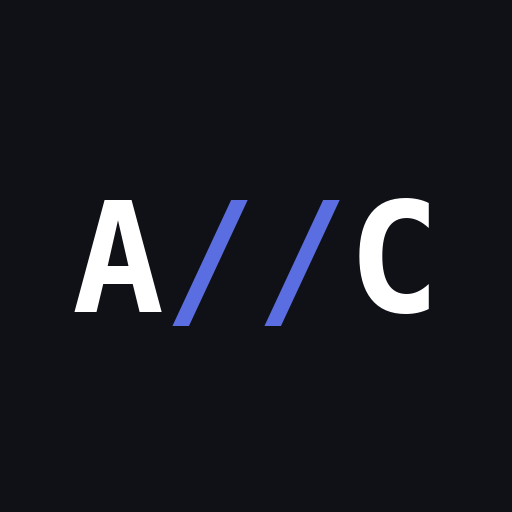
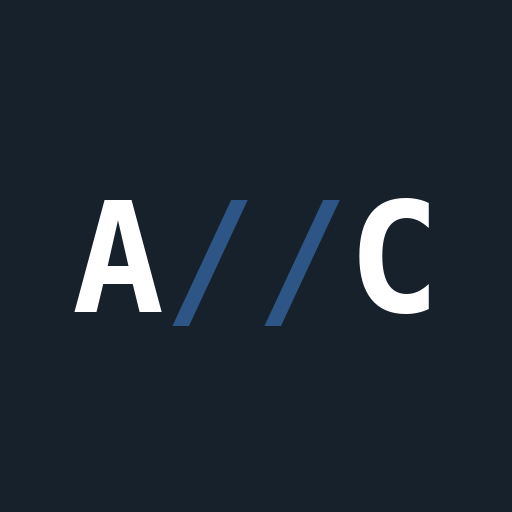
Add files via upload

Changed region(s): [[0.5, 0.375, 0.6562, 0.6562], [0.3438, 0.375, 0.5, 0.6562]]

diff --git a/index.html b/index.html
@@ -4,78 +4,109 @@
 <meta charset="UTF-8">
 <meta name="viewport" content="width=device-width, initial-scale=1.0">
 <title>ALAV COMEX — Gestión Aduanera</title>
-<meta name="theme-color" content="#0f1117">
+<meta name="theme-color" content="#17212c">
 <link rel="manifest" href="manifest.json">
 <link rel="icon" href="icon-192.png" type="image/png">
 <link rel="apple-touch-icon" href="icon-192.png">
 <meta name="apple-mobile-web-app-capable" content="yes">
 <meta name="apple-mobile-web-app-status-bar-style" content="black-translucent">
 <meta name="apple-mobile-web-app-title" content="ALAV COMEX">
+<link rel="preconnect" href="https://fonts.googleapis.com">
+<link rel="preconnect" href="https://fonts.gstatic.com" crossorigin>
+<link href="https://fonts.googleapis.com/css2?family=IBM+Plex+Mono:wght@400;500;600;700&family=Space+Grotesk:wght@400;500;600;700&display=swap" rel="stylesheet">
 <style>
-:root{--bg:#f5f5f0;--bg2:#ffffff;--bg3:#f0f0eb;--bd:#e0ddd5;--bd2:#c8c4bc;--tx:#1a1a1a;--tx2:#5a5a5a;--tx3:#9a9a9a;--ac:#5b6ee1;--ac2:#3a50cc;--gr:#1a9e5c;--gbg:rgba(26,158,92,.08);--gbr:rgba(26,158,92,.3);--yw:#d4900a;--ybg:rgba(212,144,10,.08);--rd:#d93b3b;--rbg:rgba(217,59,59,.08);--or:#e06b1a;--orbg:rgba(224,107,26,.08);--pu:#7c5cbf;--pubg:rgba(124,92,191,.08);--mn:"IBM Plex Mono",monospace;--sn:"IBM Plex Sans",sans-serif;--r:10px;--rs:6px}
+:root{
+  /* ── Papel / superficies ── */
+  --bg:#e9e0c9;        /* mesa de trabajo — papel de manifiesto */
+  --bg2:#fffcf4;        /* tarjeta — hoja fresca */
+  --bg3:#f2ead4;        /* campo hundido — casillero de formulario */
+  --bd:#d9cca4;         /* línea fina */
+  --bd2:#c2b184;         /* línea marcada */
+  /* ── Tinta ── */
+  --tx:#1c2530;         /* texto principal */
+  --tx2:#5c5240;         /* texto secundario */
+  --tx3:#9c8f6e;         /* texto terciario */
+  --ink:#17212c;         /* tinta oscura — header, sellos */
+  --ink2:#0e1620;
+  /* ── Sello (acento principal) ── */
+  --ac:#2d5686;
+  --ac2:#1c3a5e;
+  /* ── Estados (colores de canal — VERDE/NARANJA/ROJO, como en tus despachos) ── */
+  --gr:#1f7a4d;--gbg:rgba(31,122,77,.09);--gbr:rgba(31,122,77,.35);
+  --yw:#a3701c;--ybg:rgba(163,112,28,.09);
+  --rd:#ad3131;--rbg:rgba(173,49,49,.09);
+  --or:#b5651d;--orbg:rgba(181,101,29,.09);
+  --pu:#5d4a8a;--pubg:rgba(93,74,138,.09);
+  /* ── Tipografía ── */
+  --mn:"IBM Plex Mono",ui-monospace,monospace;
+  --sn:"Space Grotesk",ui-sans-serif,sans-serif;
+  /* ── Forma: esquinas rectas, como un formulario, no una app de moda ── */
+  --r:3px;--rs:2px;
+}
 *{box-sizing:border-box;margin:0;padding:0}
-body{font-family:var(--sn);background:#b0aaa0;color:var(--tx);min-height:100vh;font-size:14px}
-.hdr{background:var(--bg2);border-bottom:1px solid var(--bd);padding:0 18px;display:flex;align-items:center;gap:16px;height:54px;position:sticky;top:0;z-index:100;box-shadow:0 2px 12px rgba(0,0,0,.25)}
-.logo{font-family:var(--mn);font-size:13px;font-weight:700;color:var(--ac);white-space:nowrap;letter-spacing:.05em}
-.logo span{color:var(--tx3)}
+body{font-family:var(--sn);background:var(--bg);background-image:repeating-linear-gradient(0deg,rgba(28,37,48,.025) 0px,rgba(28,37,48,.025) 1px,transparent 1px,transparent 28px);color:var(--tx);min-height:100vh;font-size:14px}
+.hdr{background:var(--ink);border-bottom:2px solid var(--ac);padding:0 18px;display:flex;align-items:center;gap:16px;height:54px;position:sticky;top:0;z-index:100;box-shadow:0 4px 16px rgba(0,0,0,.3)}
+.logo{font-family:var(--sn);font-size:14px;font-weight:700;color:#fff;white-space:nowrap;letter-spacing:.08em;text-transform:uppercase;border:1px solid rgba(255,255,255,.25);padding:4px 10px;border-radius:var(--rs);position:relative}
+.logo::before{content:'';position:absolute;left:-1px;top:-1px;width:6px;height:6px;border-top:1px solid var(--ac);border-left:2px solid var(--ac)}
+.logo span{color:#7fa5d6}
 .nav{display:flex;gap:2px;flex:1;overflow-x:auto}
-.nb{font-size:12px;font-weight:500;padding:5px 14px;border:none;background:none;color:var(--tx2);cursor:pointer;border-radius:var(--rs);transition:all .2s;white-space:nowrap;font-family:var(--sn);letter-spacing:.01em}
-.nb:hover{background:var(--bg3);color:var(--tx)}
-.nb.active{background:var(--ac);color:#fff;box-shadow:0 2px 8px rgba(91,110,225,.25)}
-.nb.nsal{color:var(--or)}.nb.nsal.active{background:var(--or);color:#fff}
-.nb.nliq{color:var(--pu)}.nb.nliq.active{background:var(--pu);color:#000}
-.nb.nadm{color:var(--yw)}.nb.nadm.active{background:var(--yw);color:#000}
+.nb{font-size:11px;font-weight:600;padding:6px 14px;border:none;background:none;color:#a8b3c2;cursor:pointer;border-radius:var(--rs);transition:all .15s;white-space:nowrap;font-family:var(--sn);letter-spacing:.05em;text-transform:uppercase}
+.nb:hover{background:rgba(255,255,255,.08);color:#fff}
+.nb.active{background:var(--ac);color:#fff;box-shadow:0 2px 8px rgba(45,86,134,.4)}
+.nb.nsal{color:#e0a370}.nb.nsal.active{background:var(--or);color:#fff}
+.nb.nliq{color:#b7a3e0}.nb.nliq.active{background:var(--pu);color:#fff}
+.nb.nadm{color:#e0c17a}.nb.nadm.active{background:var(--yw);color:#fff}
 .wrap{max-width:1400px;margin:0 auto;padding:18px}
 .sec{display:none}.sec.active{display:block}
-.stit{font-family:var(--mn);font-size:10px;font-weight:700;color:var(--tx3);letter-spacing:.15em;text-transform:uppercase;margin-bottom:16px;padding-left:10px;border-left:3px solid var(--ac);opacity:.8}
-.card{background:var(--bg2);border:1px solid var(--bd);border-radius:var(--r);padding:16px;margin-bottom:12px;box-shadow:0 2px 10px rgba(0,0,0,.2)}
-.ct{font-size:13px;font-weight:600;color:var(--tx);margin-bottom:12px}
+.stit{font-family:var(--mn);font-size:10px;font-weight:700;color:var(--tx3);letter-spacing:.18em;text-transform:uppercase;margin-bottom:16px;padding-left:10px;border-left:3px solid var(--ac)}
+.card{background:var(--bg2);border:1px solid var(--bd2);border-radius:var(--r);padding:16px;margin-bottom:12px;box-shadow:0 1px 0 var(--bd2),0 3px 10px rgba(28,37,48,.08);position:relative}
+.ct{font-size:13px;font-weight:700;color:var(--tx);margin-bottom:12px;font-family:var(--sn)}
 .fr{display:flex;gap:10px;flex-wrap:wrap;margin-bottom:10px}
 .ff{display:flex;flex-direction:column;gap:4px;flex:1;min-width:100px}
-.ff label{font-size:10px;font-weight:500;color:var(--tx3);letter-spacing:.06em;text-transform:uppercase}
+.ff label{font-size:10px;font-weight:600;color:var(--tx3);letter-spacing:.07em;text-transform:uppercase;font-family:var(--mn)}
 .ff select,.ff input{background:var(--bg3);border:1px solid var(--bd2);border-radius:var(--rs);color:var(--tx);font-family:var(--sn);font-size:13px;padding:7px 9px;outline:none;transition:border-color .15s}
-.ff select:focus,.ff input:focus{border-color:var(--ac);box-shadow:0 0 0 3px rgba(91,141,238,.12)}
-.ff select option{background:rgba(0,0,0,.2)}
-.btn{font-family:var(--sn);font-size:12px;font-weight:500;padding:7px 14px;border-radius:var(--rs);border:1px solid var(--bd2);background:var(--bg3);color:var(--tx);cursor:pointer;transition:all .15s}
+.ff select:focus,.ff input:focus{border-color:var(--ac);box-shadow:0 0 0 3px rgba(45,86,134,.14)}
+.ff select option{background:var(--bg2)}
+.btn{font-family:var(--sn);font-size:12px;font-weight:600;padding:7px 14px;border-radius:var(--rs);border:1px solid var(--bd2);background:var(--bg3);color:var(--tx);cursor:pointer;transition:all .15s}
 .btn:hover{border-color:var(--ac);color:var(--ac)}
 .btnp{background:var(--ac);border-color:var(--ac);color:#fff}.btnp:hover{background:var(--ac2);border-color:var(--ac2);color:#fff}
-.btng{background:var(--gbg);border-color:var(--gr);color:var(--gr)}.btng:hover{background:var(--gr);color:#000}
+.btng{background:var(--gbg);border-color:var(--gr);color:var(--gr)}.btng:hover{background:var(--gr);color:#fff}
 .btno{background:var(--orbg);border-color:var(--or);color:var(--or)}.btno:hover{background:var(--or);color:#fff}
-.btnpu{background:var(--pubg);border-color:var(--pu);color:var(--pu)}.btnpu:hover{background:var(--pu);color:#000}
+.btnpu{background:var(--pubg);border-color:var(--pu);color:var(--pu)}.btnpu:hover{background:var(--pu);color:#fff}
 .btny{background:var(--ybg);border-color:var(--yw);color:var(--yw)}
 .btnd{background:var(--rbg);border-color:var(--rd);color:var(--rd);font-size:11px;padding:4px 9px}.btnd:hover{background:var(--rd);color:#fff}
-.bdg{display:inline-block;font-family:var(--mn);font-size:10px;font-weight:600;padding:2px 6px;border-radius:3px;letter-spacing:.04em}
-.bb{background:rgba(79,127,255,.15);color:var(--ac);border:1px solid rgba(79,127,255,.3)}
+.bdg{display:inline-block;font-family:var(--mn);font-size:10px;font-weight:600;padding:2px 6px;border-radius:2px;letter-spacing:.04em}
+.bb{background:rgba(45,86,134,.12);color:var(--ac);border:1px solid rgba(45,86,134,.3)}
 .bg{background:var(--gbg);color:var(--gr);border:1px solid var(--gbr)}
-.by{background:var(--ybg);color:var(--yw);border:1px solid rgba(240,180,41,.3)}
-.br{background:var(--rbg);color:var(--rd);border:1px solid rgba(231,76,60,.3)}
-.bo{background:var(--orbg);color:var(--or);border:1px solid rgba(249,115,22,.3)}
-.bnac{background:var(--gbg);color:var(--gr);border:1px solid var(--gbr);font-family:var(--mn);font-size:9px;padding:1px 5px;border-radius:3px}
-.tag{display:inline-block;font-size:11px;padding:2px 7px;border-radius:3px;margin:2px;border:1px solid var(--bd2);color:var(--tx2)}
+.by{background:var(--ybg);color:var(--yw);border:1px solid rgba(163,112,28,.3)}
+.br{background:var(--rbg);color:var(--rd);border:1px solid rgba(173,49,49,.3)}
+.bo{background:var(--orbg);color:var(--or);border:1px solid rgba(181,101,29,.3)}
+.bnac{background:var(--gbg);color:var(--gr);border:1px solid var(--gbr);font-family:var(--mn);font-size:9px;padding:1px 5px;border-radius:2px}
+.tag{display:inline-block;font-size:11px;padding:2px 7px;border-radius:2px;margin:2px;border:1px solid var(--bd2);color:var(--tx2)}
 .tw{overflow-x:auto}
 table{width:100%;border-collapse:collapse;font-size:12px}
-thead th{font-family:var(--mn);font-size:10px;font-weight:600;color:var(--tx2);padding:6px 8px;text-align:left;border-bottom:1px solid var(--bd);letter-spacing:.06em;text-transform:uppercase;white-space:nowrap;background:rgba(0,0,0,.2)}
+thead th{font-family:var(--mn);font-size:10px;font-weight:700;color:var(--tx2);padding:7px 8px;text-align:left;border-bottom:2px solid var(--bd2);letter-spacing:.07em;text-transform:uppercase;white-space:nowrap;background:var(--bg3)}
 tbody td{padding:6px 8px;border-bottom:1px solid var(--bd);color:var(--tx);vertical-align:middle}
 tbody tr:last-child td{border-bottom:none}
-tbody tr:hover{background:rgba(255,255,255,.04)}
-tbody tr.rnac{background:rgba(62,207,142,.06)}
-tbody tr.rsosp{background:rgba(240,192,64,.06)}
+tbody tr:hover{background:rgba(45,86,134,.045)}
+tbody tr.rnac{background:var(--gbg)}
+tbody tr.rsosp{background:var(--ybg)}
 .mono{font-family:var(--mn);font-size:11px}
 .t2{color:var(--tx2)}
-.mb{background:var(--bg2);border:1px solid var(--bd);border-radius:var(--r);margin-bottom:10px;overflow:hidden;box-shadow:0 1px 5px rgba(0,0,0,.05)}
-.mh{display:flex;justify-content:space-between;align-items:center;padding:9px 12px;background:rgba(0,0,0,.2);flex-wrap:wrap;gap:8px;border-bottom:1px solid var(--bd)}
-.mn2{font-size:13px;font-weight:600;color:var(--tx)}
+.mb{background:var(--bg2);border:1px solid var(--bd2);border-radius:var(--r);margin-bottom:10px;overflow:hidden;box-shadow:0 1px 0 var(--bd2),0 2px 6px rgba(28,37,48,.06)}
+.mh{display:flex;justify-content:space-between;align-items:center;padding:9px 12px;background:var(--bg3);flex-wrap:wrap;gap:8px;border-bottom:1px dashed var(--bd2)}
+.mn2{font-size:13px;font-weight:700;color:var(--tx)}
 .mncm{font-family:var(--mn);font-size:10px;color:var(--tx3);margin-left:7px}
-.nbox{padding:7px 12px;background:rgba(91,110,225,.06);border-bottom:1px solid rgba(91,110,225,.15);font-size:12px;color:var(--ac)}
-.pbox{padding:7px 12px;font-size:12px;border-bottom:1px solid var(--bd);display:flex;gap:14px;flex-wrap:wrap;align-items:center}
-.sl{padding:4px 12px;font-family:var(--mn);font-size:10px;font-weight:500;color:var(--tx3);background:var(--bg);border-top:1px solid var(--bd);letter-spacing:.05em;text-transform:uppercase}
-.snac{padding:4px 12px;font-family:var(--mn);font-size:10px;font-weight:600;color:var(--gr);background:rgba(46,204,113,.05);border-top:1px solid var(--gbr);letter-spacing:.05em}
-.ssosp{padding:4px 12px;font-family:var(--mn);font-size:10px;color:var(--yw);background:rgba(240,180,41,.05);border-top:1px solid rgba(240,180,41,.2)}
-.empty{text-align:center;padding:30px;color:var(--tx3);font-size:13px}
+.nbox{padding:7px 12px;background:rgba(45,86,134,.06);border-bottom:1px solid rgba(45,86,134,.18);font-size:12px;color:var(--ac)}
+.pbox{padding:7px 12px;font-size:12px;border-bottom:1px dashed var(--bd2);display:flex;gap:14px;flex-wrap:wrap;align-items:center}
+.sl{padding:4px 12px;font-family:var(--mn);font-size:10px;font-weight:600;color:var(--tx3);background:var(--bg3);border-top:1px dashed var(--bd2);letter-spacing:.06em;text-transform:uppercase}
+.snac{padding:4px 12px;font-family:var(--mn);font-size:10px;font-weight:700;color:var(--gr);background:var(--gbg);border-top:1px solid var(--gbr);letter-spacing:.06em}
+.ssosp{padding:4px 12px;font-family:var(--mn);font-size:10px;color:var(--yw);background:var(--ybg);border-top:1px solid rgba(163,112,28,.25)}
+.empty{text-align:center;padding:30px;color:var(--tx3);font-size:13px;font-family:var(--mn)}
 .ibox{background:var(--bg3);border:1px solid var(--bd2);border-radius:var(--rs);padding:10px 14px;margin-bottom:10px;display:flex;gap:16px;flex-wrap:wrap;font-size:12px}
 .ii{display:flex;flex-direction:column;gap:2px}
-.il{font-size:10px;color:var(--tx3);text-transform:uppercase;letter-spacing:.05em;font-family:var(--mn)}
-.iv{font-weight:600;color:var(--tx)}
+.il{font-size:10px;color:var(--tx3);text-transform:uppercase;letter-spacing:.06em;font-family:var(--mn)}
+.iv{font-weight:700;color:var(--tx)}
 .cbtd{width:28px;text-align:center}
 input[type=checkbox]{width:14px;height:14px;cursor:pointer;accent-color:var(--ac)}
 .qinp{width:100px;font-family:var(--mn);font-size:11px;padding:4px 6px;background:var(--bg3);border:1px solid var(--bd2);border-radius:var(--rs);color:var(--tx);outline:none;transition:border-color .15s}
@@ -83,31 +114,31 @@ input[type=checkbox]{width:14px;height:14px;cursor:pointer;accent-color:var(--ac
 .qinp:disabled{opacity:.4;cursor:not-allowed}
 .saldo{font-size:10px;color:var(--tx3);font-family:var(--mn)}
 /* Salida activa */
-.sal-item{background:linear-gradient(135deg,var(--bg3),rgba(91,141,238,.05));border:1px solid var(--bd2);border-radius:var(--rs);padding:10px 12px;margin-bottom:6px;display:flex;justify-content:space-between;align-items:center;flex-wrap:wrap;gap:6px;transition:border-color .15s}
+.sal-item{background:var(--bg3);border:1px solid var(--bd2);border-left:3px solid var(--or);border-radius:var(--rs);padding:10px 12px;margin-bottom:6px;display:flex;justify-content:space-between;align-items:center;flex-wrap:wrap;gap:6px;transition:border-color .15s}
 .sal-item:hover{border-color:var(--ac)}
 /* PIN */
 .pinscrn{display:flex;align-items:center;justify-content:center;min-height:60vh}
-.pincard{background:var(--bg2);border:1px solid var(--bd);border-radius:var(--r);padding:28px;width:280px;text-align:center;box-shadow:0 4px 20px rgba(0,0,0,.08)}
-.pintit{font-family:var(--mn);font-size:13px;color:var(--yw);margin-bottom:5px;letter-spacing:.1em}
+.pincard{background:var(--bg2);border:1px solid var(--bd2);border-radius:var(--r);padding:28px;width:280px;text-align:center;box-shadow:0 4px 20px rgba(28,37,48,.15)}
+.pintit{font-family:var(--mn);font-size:13px;color:var(--yw);margin-bottom:5px;letter-spacing:.12em;text-transform:uppercase}
 .pinsub{font-size:12px;color:var(--tx2);margin-bottom:16px}
 .pininp{font-family:var(--mn);font-size:20px;text-align:center;letter-spacing:.3em;background:var(--bg3);border:1px solid var(--bd2);border-radius:var(--rs);color:var(--tx);width:100%;padding:10px;outline:none}
 .pininp:focus{border-color:var(--yw)}
 .admtabs{display:flex;gap:5px;margin-bottom:16px;flex-wrap:wrap}
-.admtab{font-size:12px;font-weight:500;padding:6px 14px;border-radius:var(--rs);border:1px solid var(--bd);background:var(--bg3);color:var(--tx2);cursor:pointer;transition:all .15s;font-family:var(--sn)}
+.admtab{font-size:11px;font-weight:600;padding:6px 14px;border-radius:var(--rs);border:1px solid var(--bd2);background:var(--bg3);color:var(--tx2);cursor:pointer;transition:all .15s;font-family:var(--sn);letter-spacing:.04em;text-transform:uppercase}
 .admtab.active{border-color:var(--yw);color:var(--yw);background:var(--ybg)}
 .admpanel{display:none}.admpanel.active{display:block}
-::-webkit-scrollbar{width:5px;height:5px}::-webkit-scrollbar-track{background:rgba(0,0,0,.2)}::-webkit-scrollbar-thumb{background:var(--bd2);border-radius:3px}::-webkit-scrollbar-thumb:hover{background:var(--ac)}
+::-webkit-scrollbar{width:5px;height:5px}::-webkit-scrollbar-track{background:var(--bg3)}::-webkit-scrollbar-thumb{background:var(--bd2);border-radius:3px}::-webkit-scrollbar-thumb:hover{background:var(--ac)}
 @media(max-width:600px){.wrap{padding:10px}.hdr{padding:0 10px}.presence-roster{gap:4px}.p-user{padding:3px 8px;font-size:10px}}
 /* Colaboración: presencia, banner de novedades, toast, modal de nombre */
 .presence-roster{display:flex;gap:8px;font-family:var(--mn);font-size:11px}
-.p-user{padding:4px 12px;border-radius:20px;border:1px solid var(--bd2);color:var(--tx3);background:var(--bg3);transition:all .2s;white-space:nowrap}
+.p-user{padding:4px 12px;border-radius:20px;border:1px solid rgba(255,255,255,.2);color:#8a93a5;background:rgba(255,255,255,.04);transition:all .2s;white-space:nowrap}
 .p-user::before{content:'●';margin-right:5px;font-size:9px}
-.p-user.online{color:var(--gr);border-color:var(--gbr);background:var(--gbg)}
-.update-banner{display:none;background:var(--ybg);border-bottom:1px solid rgba(212,144,10,.3);color:var(--yw);font-size:12px;font-weight:600;padding:8px 18px;align-items:center;justify-content:center;gap:10px;position:sticky;top:54px;z-index:99}
-.update-banner button{font-family:var(--sn);font-size:11px;font-weight:600;padding:4px 12px;border-radius:var(--rs);border:1px solid var(--yw);background:var(--yw);color:#000;cursor:pointer}
+.p-user.online{color:#5fd9a0;border-color:rgba(95,217,160,.4);background:rgba(95,217,160,.1)}
+.update-banner{display:none;background:var(--ybg);border-bottom:1px solid rgba(163,112,28,.3);color:var(--yw);font-size:12px;font-weight:600;padding:8px 18px;align-items:center;justify-content:center;gap:10px;position:sticky;top:54px;z-index:99}
+.update-banner button{font-family:var(--sn);font-size:11px;font-weight:600;padding:4px 12px;border-radius:var(--rs);border:1px solid var(--yw);background:var(--yw);color:#fff;cursor:pointer}
 .toast-wrap{position:fixed;bottom:16px;left:50%;transform:translateX(-50%);z-index:999;display:flex;flex-direction:column;gap:6px;align-items:center;width:100%;pointer-events:none}
-.toast{background:#1a1a1a;color:#fff;border:1px solid var(--yw);font-size:12px;padding:9px 16px;border-radius:var(--rs);box-shadow:0 4px 20px rgba(0,0,0,.4);max-width:90vw;text-align:center}
-#name-modal{display:none;position:fixed;inset:0;background:rgba(0,0,0,.65);z-index:998;align-items:center;justify-content:center}
+.toast{background:var(--ink);color:#fff;border:1px solid var(--yw);font-size:12px;padding:9px 16px;border-radius:var(--rs);box-shadow:0 4px 20px rgba(0,0,0,.4);max-width:90vw;text-align:center}
+#name-modal{display:none;position:fixed;inset:0;background:rgba(23,33,44,.75);z-index:998;align-items:center;justify-content:center}
 </style>
 <script src="https://cdnjs.cloudflare.com/ajax/libs/pdf.js/3.11.174/pdf.min.js"></script>
 </head>

diff --git a/service-worker.js b/service-worker.js
@@ -2,7 +2,7 @@
 // Cachea el "shell" de la app (HTML/manifest/íconos) para que abra rápido y offline.
 // Los datos (Supabase) NUNCA se cachean: siempre van directo a la red.
 
-const CACHE_NAME = 'alav-comex-v1';
+const CACHE_NAME = 'alav-comex-v2';
 const APP_SHELL = [
   './',
   './index.html',